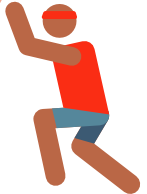
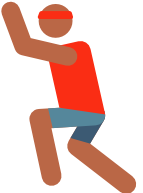
Blockaren kan hoppa

diff --git a/basketspel.py b/basketspel.py
@@ -27,14 +27,17 @@ netY = 210
 
 # Blocker
 blockerImg = pygame.image.load("basketball-player (2).png")
-x_blocker = 350
-y_blocker = 350
+x_blocker = 345
+y_blocker = 328
 
 
-
+# Jump for shooter
 isJump = False
-
 jumpCount = 10
+
+# Jump for blocker
+bisJump = False
+bjumpCount = 10
 
 # Ball
 ballImg = pygame.image.load("basketball2.png")
@@ -94,21 +97,51 @@ while not done:
             if jumpCount > -1:
                 y_ball -= (jumpCount * abs(jumpCount)) * 0.5
             if jumpCount == -1:            
-                ballPosX = 15            
+                ballPosX = 30            
                 ballPosY = 1
                 
-            #print(jumpCount)
-            #print(y_player)
         else: 
             jumpCount = 10
-            isJump = False            
+            isJump = False  
+
+    #print(x_ball)
+    #print(y_ball)    
+
     if x_ball == 765:
         ballPosX = 0
         ballPosY = 0
         x_ball = 255
         y_ball = 275
         score += 1
-   
+
+    #if (x_ball >= x_blocker and (x_ball + 64) < x_blocker) or (x_blocker >= x_ball and (x_blocker + 30) < x_ball):
+        #if (y_ball >= y_blocker and (y_ball - 64) < y_blocker) or (y_blocker >= y_ball and (y_blocker + 100) < y_ball):
+    #if y_ball == y_blocker and x_ball == x_blocker:
+    #if (x_ball == x_blocker) and (y_ball >= y_blocker and y_ball < y_blocker):
+         
+     #   x_ball = 255
+     #   y_ball = 275
+    #    ballPosX = 0
+     #   ballPosY = 0
+
+    if not(bisJump): 
+
+        if keys[pygame.K_UP]:
+            bisJump = True
+            
+    else:
+        if bjumpCount >= -10:           
+            y_blocker -= (bjumpCount * abs(bjumpCount)) * 0.5
+            bjumpCount -= 1     
+            #print(x_blocker)  
+            #print(y_blocker)
+
+        else: 
+            bjumpCount = 10
+            bisJump = False            
+
+    
+
     text = "Score:" + str(score)
     label = Font.render(text, 1, (0,0,0))
         
